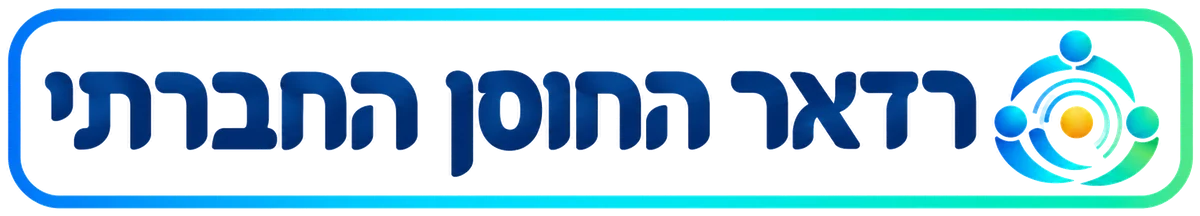
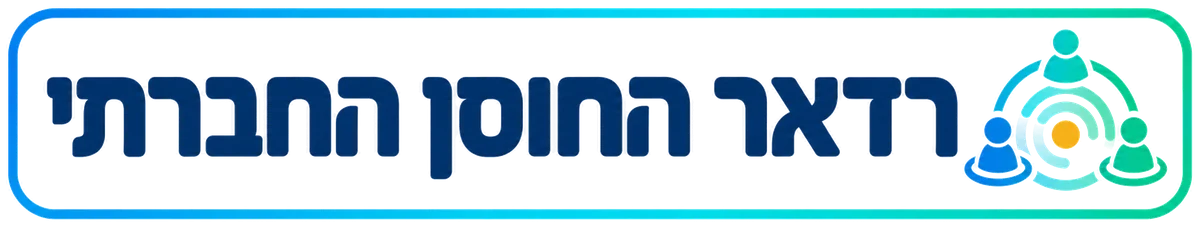
רדאר החוסן החברתי: באנר חדש
Claude-Session: https://claude.ai/code/session_01BDkU3fcpFAuS2oMJj2n668

diff --git a/app/hl-radar.html b/app/hl-radar.html
@@ -245,7 +245,7 @@ table.mx td.el .small{font-weight:400}
 <header class="top">
   <div>
     <div class="brand">Begood · מעבדת האופק</div>
-    <h1 class="hero-banner"><img src="assets/hl-radar-banner.webp" alt="רדאר החוסן החברתי" width="1200" height="216"></h1>
+    <h1 class="hero-banner"><img src="assets/hl-radar-banner.webp" alt="רדאר החוסן החברתי" width="1200" height="227"></h1>
     <p class="muted">הרדאר מבוסס על ״סריקת אופק״ ו״מיפוי מניעים״ מתוך ערכת Futures Toolkit. אוספים יחד אותות קטנים לשינוי, שאנשים שמים לב אליהם בחיים, בעבודה ובחדשות. מקבצים אותם למניעי שינוי, ומחליטים מה מהם דורש פעולה עכשיו, ממה כדאי לבנות תרחישים, ואחרי מה כדאי רק לעקוב.</p>
   </div>
 </header>
